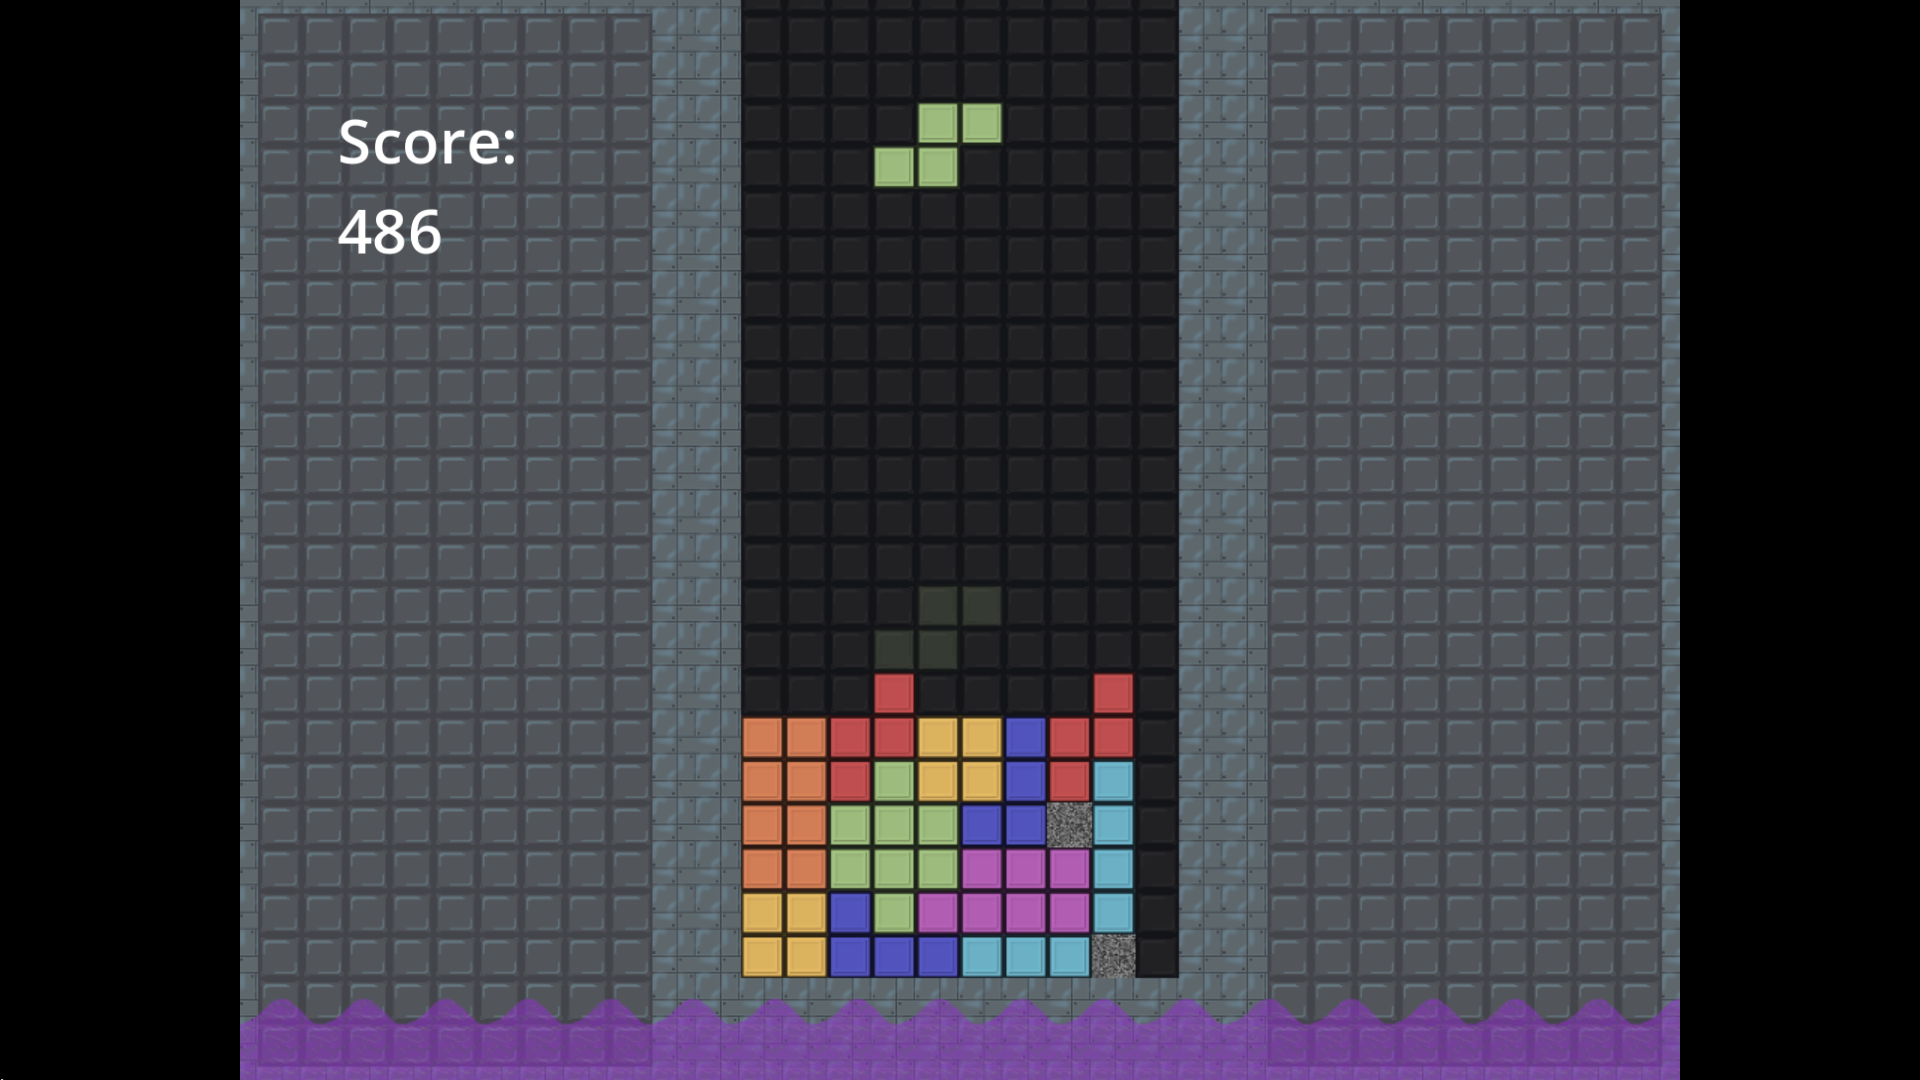
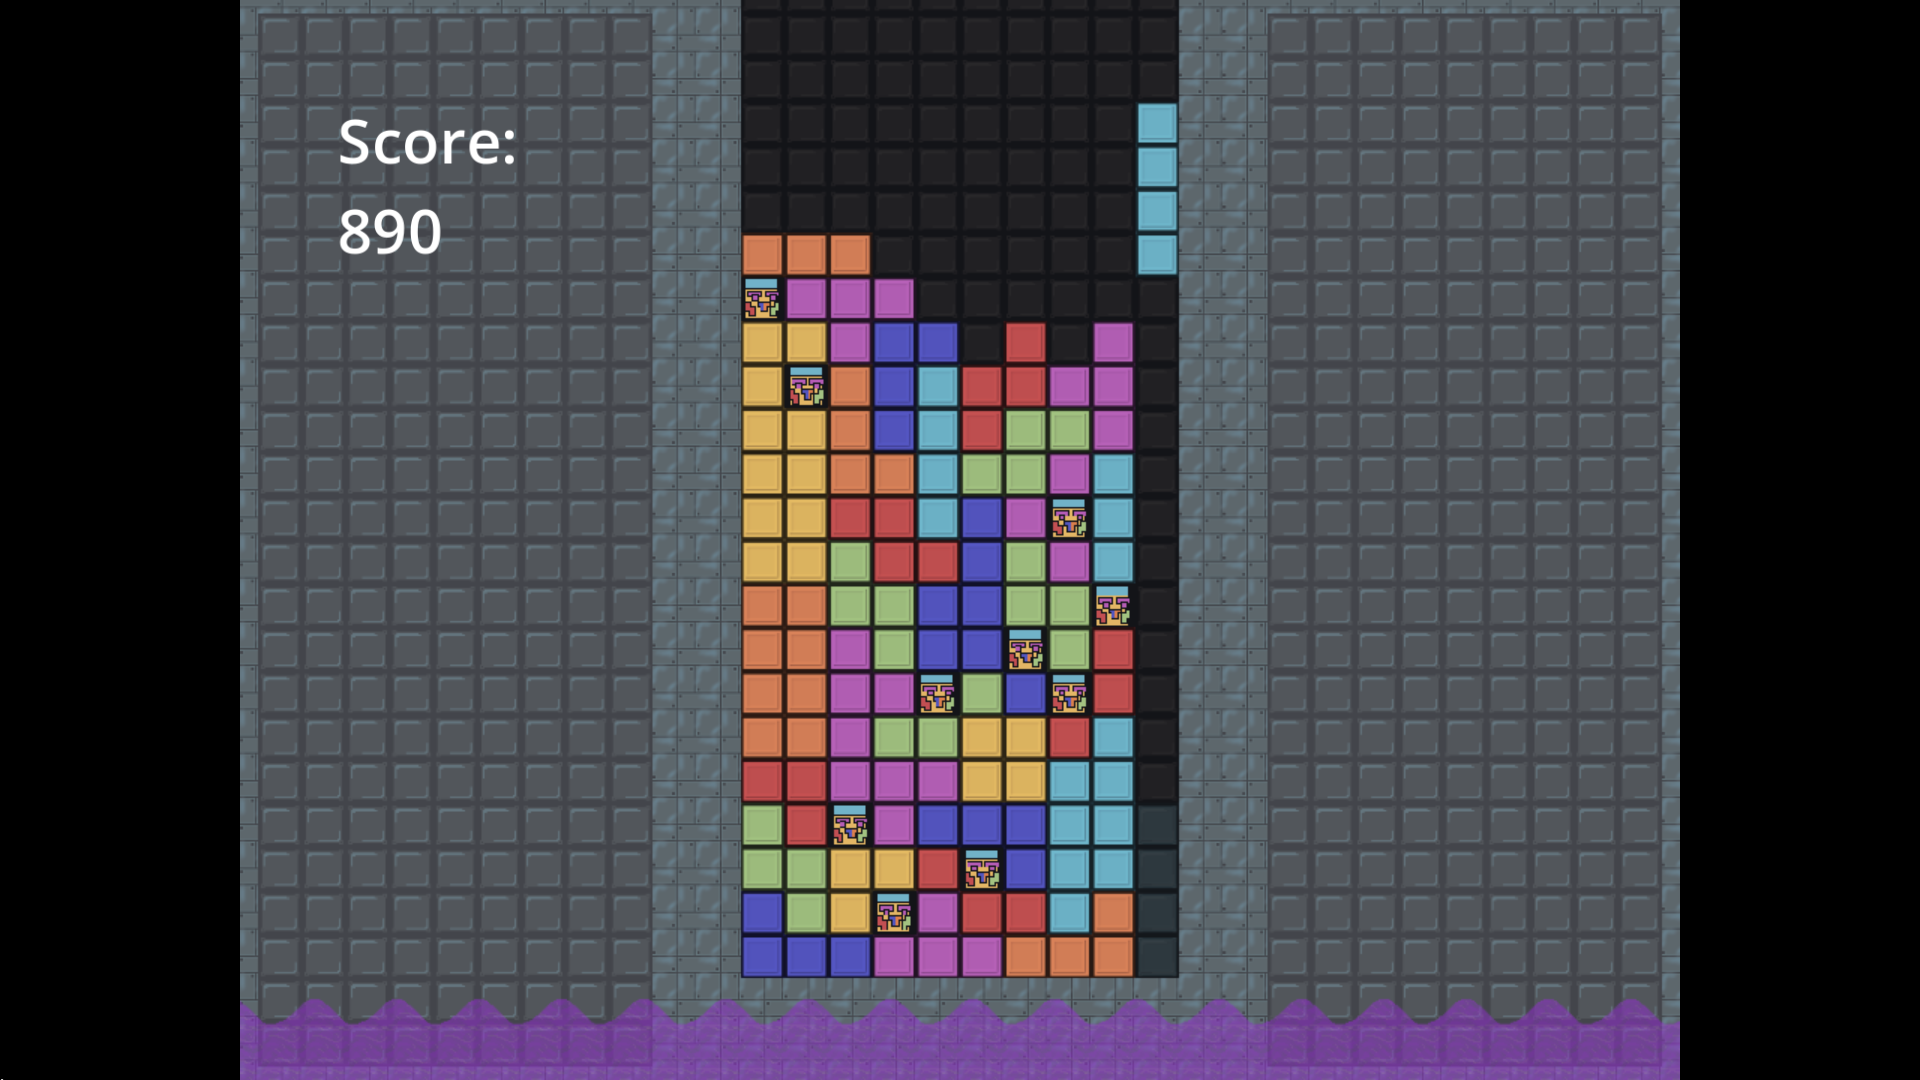
docs: updated screenshots

diff --git a/README.md b/README.md
@@ -44,11 +44,11 @@ Hold: C
 
 ## Screenshots
 
-![](screenshots/01-ss.png)
+![](screenshots/03-ss.png)
 
 ![](screenshots/02-ss.png)
 
-![](screenshots/03-ss.png)
+![](screenshots/01-ss.png)
 
 ## AI Usage
 